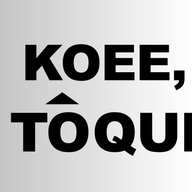
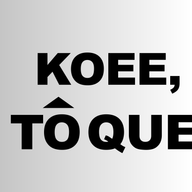
v1.7.4 fix(FaviconCORTE): TUDO FIT CONTAIN 0 cortes! Marca KOEE, TÔQUEBRADO INTEIRA em 16/32/48/64/180/192/512. SVG com padding interno 5% + fundo gradiente separado por tamanho para nao cortar letras. Cache-bust v174.

Changed region(s): [[0.0625, 0.2188, 1.0, 0.8125]]

diff --git a/index.html b/index.html
@@ -7,20 +7,20 @@
     <meta name="description" content="tôquebrado — Koee! Controle pessoal inteligente: receitas, despesas, diárias, cartões, insights e relatórios." />
     <meta name="theme-color" content="#0B1020">
 
-    <!-- FAVICONS (ICO → PNG → SVG) + CACHE BUST v1.7.3 (100% FONTE PNG - gradiente prata favicon_2 enviado) -->
-    <link rel="icon" type="image/x-icon" sizes="16x16 32x32 48x48" href="/favicon.ico?v=173">
-    <link rel="shortcut icon" href="/favicon.ico?v=173">
-    <link rel="icon" type="image/png" sizes="64x64" href="/favicon.png?v=173">
-    <link rel="icon" type="image/svg+xml" sizes="any" href="/favicon.svg?v=173">
+    <!-- FAVICONS (ICO → PNG → SVG) + CACHE BUST v1.7.4 (TUDO FIT CONTAIN (0 CORTES, marca INTEIRA) -->
+    <link rel="icon" type="image/x-icon" sizes="16x16 32x32 48x48" href="/favicon.ico?v=174">
+    <link rel="shortcut icon" href="/favicon.ico?v=174">
+    <link rel="icon" type="image/png" sizes="64x64" href="/favicon.png?v=174">
+    <link rel="icon" type="image/svg+xml" sizes="any" href="/favicon.svg?v=174">
 
     <!-- iOS / iPadOS Home Screen -->
-    <link rel="apple-touch-icon" sizes="180x180" href="/apple-touch-icon.png?v=173">
+    <link rel="apple-touch-icon" sizes="180x180" href="/apple-touch-icon.png?v=174">
     <meta name="apple-mobile-web-app-capable" content="yes">
     <meta name="apple-mobile-web-app-status-bar-style" content="black-translucent">
     <meta name="apple-mobile-web-app-title" content="tôquebrado">
 
     <!-- PWA Android -->
-    <link rel="manifest" href="/manifest.json?v=173">
+    <link rel="manifest" href="/manifest.json?v=174">
   </head>
   <body>
     <div id="root"></div>
